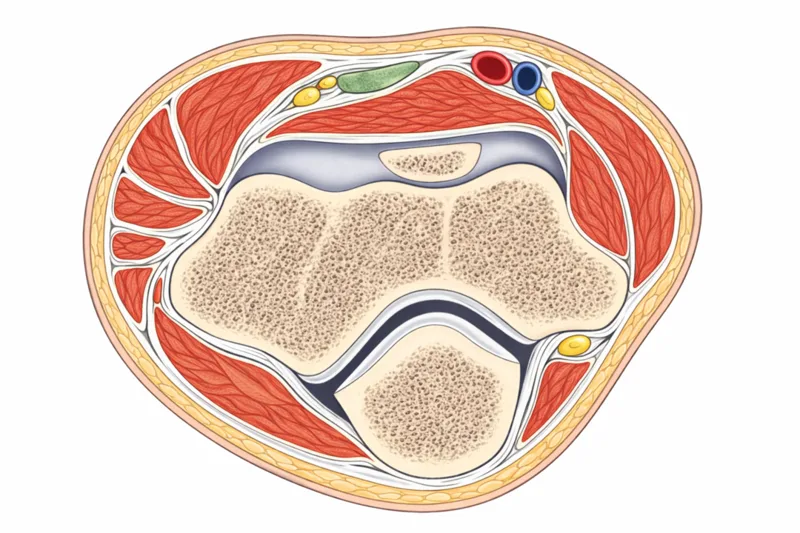
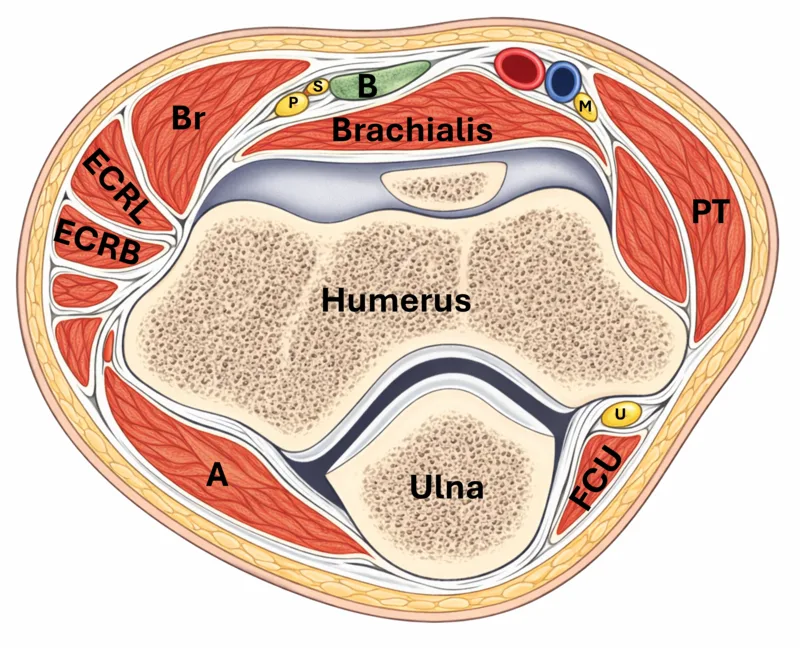
Update elbow/forearm anatomy assets

diff --git a/src/pages/ContentPage.tsx b/src/pages/ContentPage.tsx
@@ -591,12 +591,40 @@ const sensoryInnervationImages: Record<string, { baseName: string; alt: { cs: st
 };
 
 const nerveAnatomyAbbreviations: Record<string, { cs: string[]; en: string[] }> = {
+  "3_elbow": {
+    cs: [
+      "Br – m. brachioradialis",
+      "ECRL – m. extensor carpi radialis longus",
+      "ECRB – m. extensor carpi radialis brevis",
+      "B – šlacha m. biceps brachii",
+      "S – r. superficialis n. radialis",
+      "P – r. profundus n. radialis (n. interosseus posterior)",
+      "M – n. medianus",
+      "PT – m. pronator teres",
+      "U – n. ulnaris",
+      "FCU – m. flexor carpi ulnaris",
+      "A – m. anconeus"
+    ],
+    en: [
+      "Br – brachioradialis muscle",
+      "ECRL – extensor carpi radialis longus",
+      "ECRB – extensor carpi radialis brevis",
+      "B – biceps brachii tendon",
+      "S – superficial branch of the radial nerve",
+      "P – deep branch of the radial nerve (posterior interosseous nerve)",
+      "M – median nerve",
+      "PT – pronator teres muscle",
+      "U – ulnar nerve",
+      "FCU – flexor carpi ulnaris",
+      "A – anconeus muscle"
+    ]
+  },
   "4_forearm": {
     cs: [
       "Br – m. brachioradialis",
       "ECRL – m. extensor carpi radialis longus",
       "ECRB – m. extensor carpi radialis brevis",
-      "ED – m. extensor digitorum",
+      "EDC – m. extensor digitorum communis",
       "EDM – m. extensor digiti minimi",
       "ECU – m. extensor carpi ulnaris",
       "AbPL – m. abductor pollicis longus",
@@ -612,6 +640,7 @@ const nerveAnatomyAbbreviations: Record<string, { cs: string[]; en: string[] }> 
       "U (nerv) – n. ulnaris",
       "Rs – r. superficialis n. radialis",
       "Rp – r. profundus n. radialis (n. interosseus posterior)",
+      "AIN – n. interosseus anterior",
       "R – radius",
       "U (kost) – ulna"
     ],
@@ -619,7 +648,7 @@ const nerveAnatomyAbbreviations: Record<string, { cs: string[]; en: string[] }> 
       "Br – brachioradialis muscle",
       "ECRL – extensor carpi radialis longus",
       "ECRB – extensor carpi radialis brevis",
-      "ED – extensor digitorum",
+      "EDC – extensor digitorum communis",
       "EDM – extensor digiti minimi",
       "ECU – extensor carpi ulnaris",
       "AbPL – abductor pollicis longus",
@@ -635,6 +664,7 @@ const nerveAnatomyAbbreviations: Record<string, { cs: string[]; en: string[] }> 
       "U (nerve) – ulnar nerve",
       "Rs – superficial branch of the radial nerve",
       "Rp – deep branch of the radial nerve (posterior interosseous nerve)",
+      "AIN – anterior interosseous nerve",
       "R – radius",
       "U (bone) – ulna"
     ]
